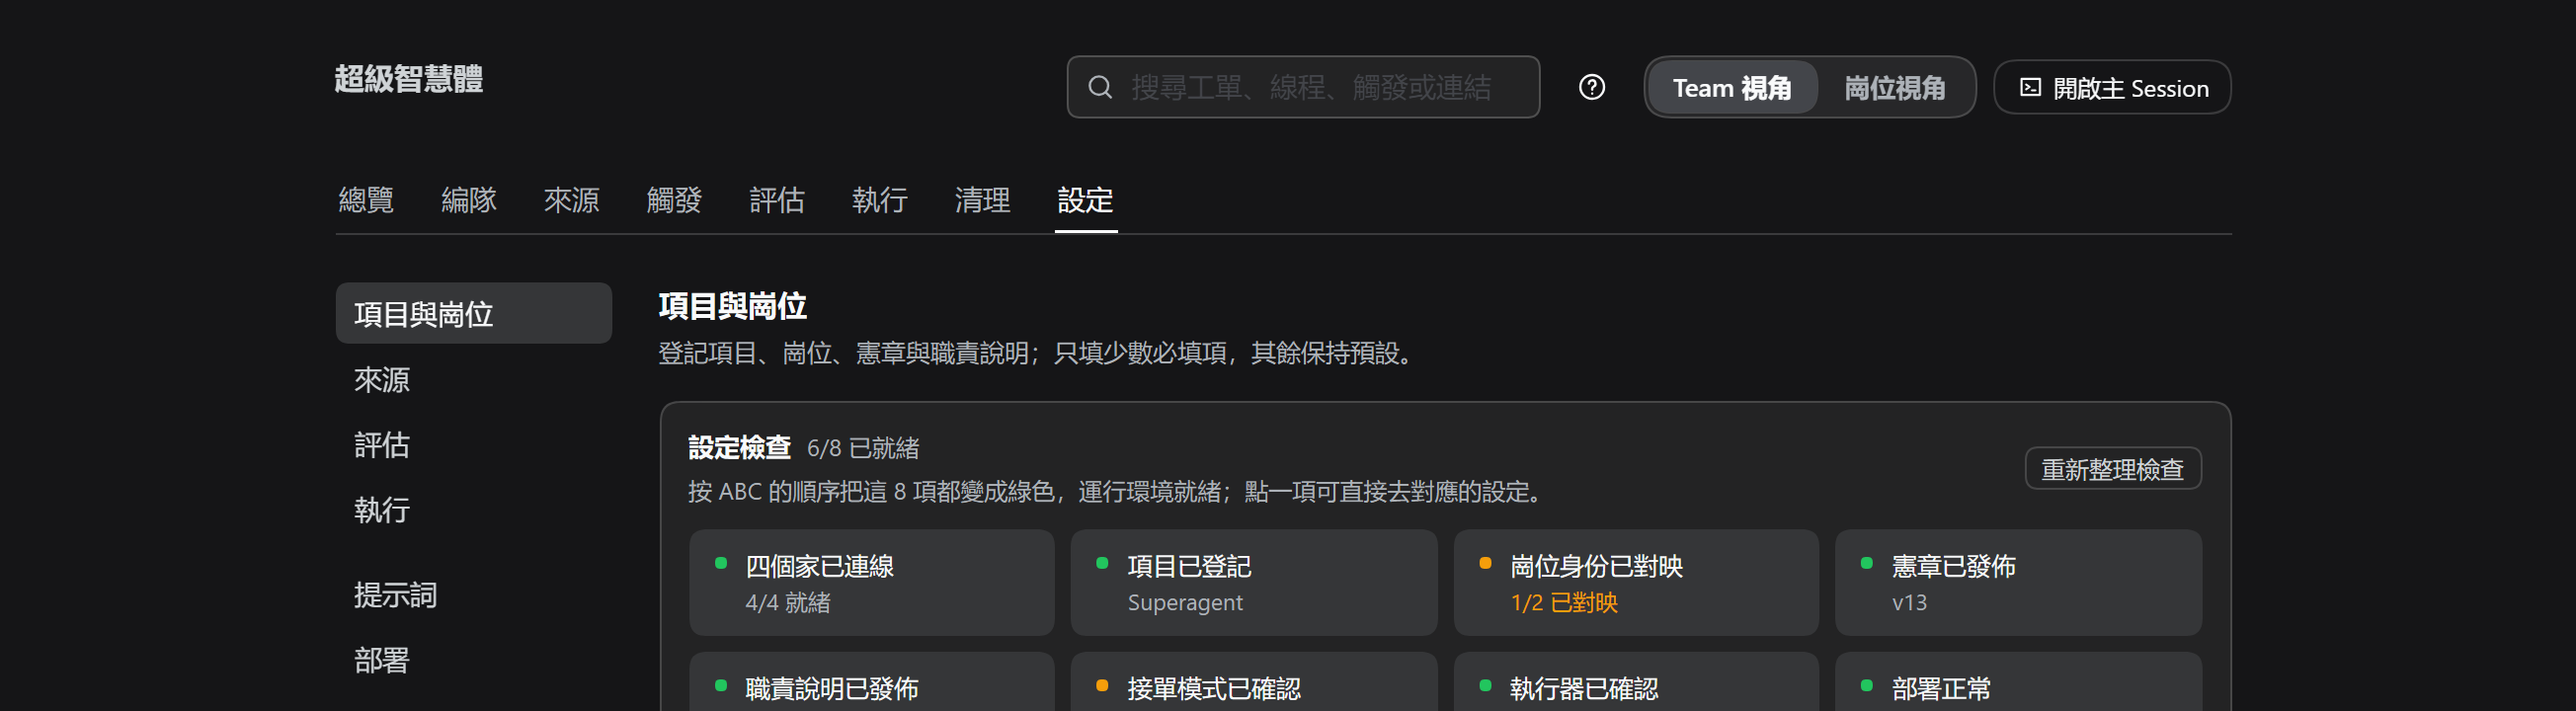
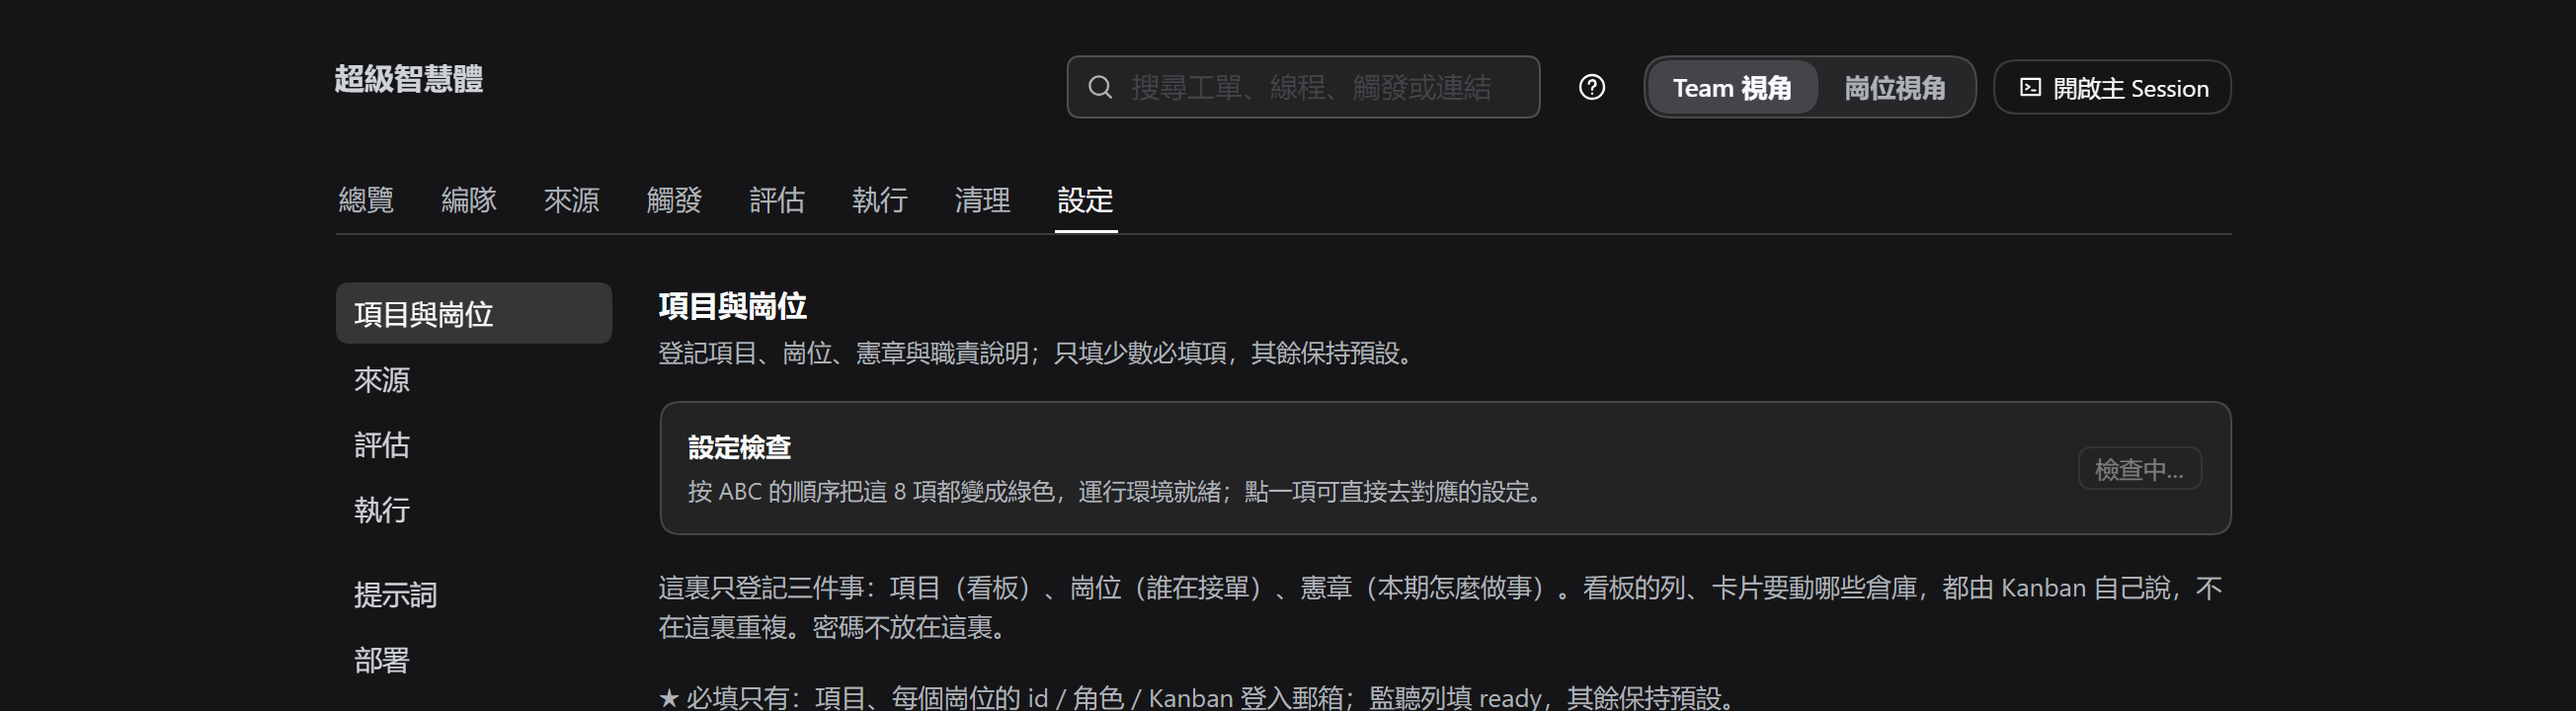
fix(panel,docs): a host maps only the posts it plays, and the setup check accepts one identity
The user clarified the deployment model: several hosts run superagent on one project board, each taking a free
combination of posts (only PM; only worker; several workers for different duties; or every kind). The Team on a
machine is exactly the combination registered in its own "项目与岗位" tab, so a machine normally maps only the
posts it plays — often one.

- The setup check no longer demands a fixed PM + worker pair (it used to say "1/2 mapped" for a host that
  legitimately plays one post). The post-identity item now reports `{mapped}/{total}` and is ready as soon as one
  post is mapped; it only warns when no post has a Kanban identity.
- The project group hint says this tab is this host's Team (one, several, or every kind), and that other hosts
  register theirs in their own panel.
- Docs spell the model out: SOP §2.6 now lists the four combinations with examples and says a host maps only the
  posts it plays ("only one mapped is normal", one post per host, don't register the same post on two hosts);
  ABC §2, AIOS (Member/Team rows) and docs/009 (one account ↔ one post; a host may take several) follow.

Verified: typecheck clean; docs + project/panel/post/settings suites pass (26 tests); live panel readiness shows
2/2 mapped for the two posts this host currently lists; ABC screenshots recaptured (a9-readiness shows the item
green).

Changed region(s): [[0.2485, 0.7333, 0.8696, 1.0], [0.7765, 0.6417, 0.8696, 0.7028], [0.3106, 0.6111, 0.3727, 0.6417]]

diff --git a/tests/fixtures/panel-server.ts b/tests/fixtures/panel-server.ts
@@ -380,13 +380,13 @@ const ROUTES: { [K in keyof Api]: Route<K> } = {
       charter: { version: 3, publishedAt: '2026-09-22T00:00:00Z', publishedBy: 'agent:pm', text: 'version: 3',
         ageDays: 1, stale: false, hasDraft: false, versions: [], detail: 'The charter is current' },
       posts: [{ postId: 'pm-fdep', role: 'pm', name: 'SuperAgent PM (FDEP)', projectId: 'p1', projectName: 'FDEP',
-        kaneoUser: 'pm@example.com', kaneoUserId: 'u-pm', giteaUser: 'sa-pm-fdep', ntfySender: '#sa-pm-fdep', wipLimit: 3, instance: 'web',
+        kaneoUser: 'pm@example.com', kaneoUserId: 'bsFdwgQX', giteaUser: 'sa-pm-fdep', ntfySender: '#sa-pm-fdep', wipLimit: 3, instance: 'web',
         watchColumns: 'ready,in-progress', dutyIds: [],
         dutyCount: 1, duties: [{ ticketId: 't1', title: '修复回归', postId: 'pm-fdep', projectId: 'p1', state: 'running',
           waiting: false, updatedAt: '2026-09-23T00:00:00Z' }], overLimit: false }],
     }],
     posts: [{ postId: 'pm-fdep', role: 'pm', name: 'SuperAgent PM (FDEP)', projectId: 'p1', projectName: 'FDEP',
-      kaneoUser: 'pm@example.com', kaneoUserId: 'u-pm', giteaUser: 'sa-pm-fdep', ntfySender: '#sa-pm-fdep', wipLimit: 3, instance: 'web',
+      kaneoUser: 'pm@example.com', kaneoUserId: 'bsFdwgQX', giteaUser: 'sa-pm-fdep', ntfySender: '#sa-pm-fdep', wipLimit: 3, instance: 'web',
       watchColumns: 'ready,in-progress', dutyIds: [],
       dutyCount: 1, duties: [{ ticketId: 't1', title: '修复回归', postId: 'pm-fdep', projectId: 'p1', state: 'running',
         waiting: false, updatedAt: '2026-09-23T00:00:00Z' }], overLimit: false }],
@@ -400,7 +400,7 @@ const ROUTES: { [K in keyof Api]: Route<K> } = {
     archive: { version: 1, projects: [{ id: 'p1', name: 'FDEP', slug: 'FDE',
       charter: { version: 3, publishedAt: '2026-09-22T00:00:00Z', publishedBy: 'agent:pm', text: 'version: 3', draft: '', history: [] },
       topics: ['pub_fdep_pm'],
-      posts: [{ postId: 'pm-fdep', role: 'pm', name: 'SuperAgent PM (FDEP)', kaneoUser: 'pm@example.com', kaneoUserId: 'u-pm',
+      posts: [{ postId: 'pm-fdep', role: 'pm', name: 'SuperAgent PM (FDEP)', kaneoUser: 'pm@example.com', kaneoUserId: 'bsFdwgQX',
         giteaUser: 'sa-pm-fdep', ntfySender: '#sa-pm-fdep', wipLimit: 3, instance: 'web', watchColumns: 'ready', duties: [] }] }] },
     revision: 7,
   }) },

diff --git a/lib/client.js b/lib/client.js
@@ -4334,6 +4334,8 @@ window.__ModuleLoader__.load({
 			readinessSourcesDetail: ["{ready}/{total} 就绪", "{ready}/{total} ready"],
 			readinessMapped: ["{mapped}/{total} 已映射", "{mapped}/{total} mapped"],
 			readinessMappedOne: ["{post} 已映射", "{post} mapped"],
+			readinessHostPost: ["本机账号已映射为岗位 {post}", "This host's account maps to post {post}"],
+			readinessHostNoPost: ["本机 Kanban 账号「{account}」还没有对应岗位：把它的登录邮箱填到一张岗位卡", "This host's Kanban account {account} has no post yet: put its login e-mail on a post card"],
 			readinessCount: ["{count} 条", "{count} item(s)"],
 			readinessExecutorDetail: ["并行 {max} · 运行中 {running}", "parallel {max} · running {running}"],
 			"readiness.sources": ["四个家已连接", "Four homes connected"],
@@ -7489,16 +7491,16 @@ window.__ModuleLoader__.load({
 						state: project ? "done" : "warning"
 					});
 					const posts = project?.posts ?? [];
-					const mapped = [posts.some((post) => post.role === "pm" && post.kaneoUserId), posts.some((post) => post.role === "worker" && post.kaneoUserId)].filter(Boolean).length;
+					const mapped = posts.filter((post) => post.kaneoUserId).length;
 					items.push({
 						key: "posts",
 						group: "project",
 						label: t("readiness.posts"),
 						detail: posts.length ? t("readinessMapped", {
 							mapped: String(mapped),
-							total: "2"
+							total: String(posts.length)
 						}) : t("readinessNoPosts"),
-						state: posts.length && mapped === 2 ? "done" : "warning"
+						state: mapped > 0 ? "done" : "warning"
 					});
 					const charterVersion = project?.charter.version ?? 0;
 					items.push({

diff --git a/src/client/readiness.tsx b/src/client/readiness.tsx
@@ -68,12 +68,12 @@ export function SettingsReadiness({ state, compact = false }: { state: StateView
       items.push({ key: 'project', group: 'project', label: t('readiness.project'),
         detail: project ? (project.name || project.id) : t('readinessNoProject'),
         state: project ? 'done' : 'warning' })
+      // A host plays a free combination of posts (often just one), so one mapped identity is already a complete answer.
       const posts = project?.posts ?? []
-      const mapped = [posts.some(post => post.role === 'pm' && post.kaneoUserId),
-        posts.some(post => post.role === 'worker' && post.kaneoUserId)].filter(Boolean).length
+      const mapped = posts.filter(post => post.kaneoUserId).length
       items.push({ key: 'posts', group: 'project', label: t('readiness.posts'),
-        detail: posts.length ? t('readinessMapped', { mapped: String(mapped), total: '2' }) : t('readinessNoPosts'),
-        state: posts.length && mapped === 2 ? 'done' : 'warning' })
+        detail: posts.length ? t('readinessMapped', { mapped: String(mapped), total: String(posts.length) }) : t('readinessNoPosts'),
+        state: mapped > 0 ? 'done' : 'warning' })
       const charterVersion = project?.charter.version ?? 0
       items.push({ key: 'charter', group: 'project', label: t('readiness.charter'),
         detail: charterVersion > 0 ? `v${charterVersion}` : t('readinessNotPublished'),

diff --git a/tests/panel-projects.spec.tsx b/tests/panel-projects.spec.tsx
@@ -3,7 +3,7 @@
 // the project's own name, slug and (when the list is still the previous default) its topic along with it.
 import { expect, it } from 'vitest'
 import { zh } from '../src/client/locales.ts'
-import { usePanel, mount, find, tab, click, type, settle } from './fixtures/panel.tsx'
+import { usePanel, mount, find, tab, click, type, settle, text } from './fixtures/panel.tsx'
 import { server } from './fixtures/panel-server.ts'
 
 usePanel()
@@ -135,6 +135,15 @@ it('picks a post duty from the published duties list and saves the selection', a
   // Clicking the chip removes the selection again.
   await click(editor().querySelector('.dt-duties-picked .dt-tag')!)
   expect(editor().querySelector('.dt-duties-picked')).toBeNull()
+})
+
+it('accepts a host that maps just one post identity', async () => {
+  await mount()
+  await click(tab(zh['tab.settings']))
+  await settle()
+  // The fixture's host plays one PM post: one mapped identity is a complete answer, not "1 of a fixed PM + worker pair".
+  expect(text()).toContain('1/1 已映射')
+  expect(text()).not.toContain('1/2')
 })
 
 it('keeps the current project selectable when the account cannot see it any more', async () => {

diff --git a/src/client/locales.ts b/src/client/locales.ts
@@ -732,6 +732,9 @@ const TEXT = {
   readinessSourcesDetail: ['{ready}/{total} 就绪', '{ready}/{total} ready'],
   readinessMapped: ['{mapped}/{total} 已映射', '{mapped}/{total} mapped'],
   readinessMappedOne: ['{post} 已映射', '{post} mapped'],
+  readinessHostPost: ['本机账号已映射为岗位 {post}', 'This host\'s account maps to post {post}'],
+  readinessHostNoPost: ['本机 Kanban 账号「{account}」还没有对应岗位：把它的登录邮箱填到一张岗位卡',
+    'This host\'s Kanban account {account} has no post yet: put its login e-mail on a post card'],
   readinessCount: ['{count} 条', '{count} item(s)'],
   readinessExecutorDetail: ['并行 {max} · 运行中 {running}', 'parallel {max} · running {running}'],
   'readiness.sources': ['四个家已连接', 'Four homes connected'],

diff --git a/tests/panel-posts.spec.tsx b/tests/panel-posts.spec.tsx
@@ -45,7 +45,7 @@ it('edits the project archive in the settings page and saves it', async () => {
   expect(all('.dt-field-label').map(label => label.textContent)).toContain(zh.projectPostKanban)
   const identity = [...document.querySelectorAll<HTMLInputElement>('input')].find(input => input.value === 'pm@example.com')
   expect(identity).toBeDefined()
-  expect(document.body.textContent).toContain('u-pm')
+  expect(document.body.textContent).toContain('bsFdwgQX')
   await click(zh.projectSave)
   const saved = server.requests.find(request => request.path === 'project-archive' && request.method === 'PUT')
   expect(saved).toBeDefined()

diff --git a/AIOS.md b/AIOS.md
@@ -92,9 +92,9 @@
 | --- | --- | --- | --- |
 | **Organization（组织）** | 在共同宪章与目标下运行的协作整体 | 一个 Kanban 项目 + 项目档案（岗位、宪章镜像、职责说明、看板订阅） | ✅ |
 | **PM（领导者）** | 组织协调、授权、治理 | **PM 岗位**（主 Session / Team 视角）；签发宪章、派工、处理异常、审进度 | ✅ |
-| **Member（成员）** | 可以是真实人员，也可以是 AI Agent | AI 成员 = **岗位（Post）**（一个岗位 = 一个 SuperAgent 实例）；Human 通过来源消息、看板指派与审批参与 | 🚧 无统一 Member/成员目录（身份保留在各来源，符合 001 的取舍） |
+| **Member（成员）** | 可以是真实人员，也可以是 AI Agent | AI 成员 = **岗位（Post）**；一台 Host 的 SuperAgent 可承担一个或多个岗位（PM/Worker 组合自由），由本机「项目与岗位」登记；Human 通过来源消息、看板指派与审批参与 | 🚧 无统一 Member/成员目录（身份保留在各来源，符合 001 的取舍） |
 | **Role / 岗位** | 职责、权限、能力边界 | 岗位的 `role`（`pm` / `worker`）+ 身份绑定（Kanban 登录邮箱→用户 id、Gitea 账号、ntfy sender）+ 监听列 + WIP | ✅ |
-| **Team（团队）** | 按共同目标组织的协作单元 | 当前以"项目 + 看板列 + 职责的承接岗位"体现；**尚无独立 Team 实体** | 🔭 |
+| **Team（团队）** | 按共同目标组织的协作单元 | 当前 = 一台 Host 在本机「项目与岗位」里选定的岗位组合（一台机器一个组合）；多台 Host 围绕同一项目看板协同；**尚无独立 Team 实体** | 🔭 |
 | **Team Leader** | 团队工作组织与交付质量 | 当前由 PM 岗位兼任（项目规模小时是合理默认） | 🔭 |
 | **Worker（执行者）** | 具体工作的执行者（Human 或 AI） | **Worker 岗位**的执行器 Session（每个工单一个执行会话与工作目录） | ✅ |
 | **Charter（宪章）** | 组织共同遵守的运行规范 | 项目宪章：发布到 Gitea 宪章仓库的 `README.md`（失败时退回 Kanban 项目描述镜像）；版本化、**每周最多一版**、保留历史 | ✅ |

diff --git a/SOP.md b/SOP.md
@@ -103,14 +103,18 @@ npx @deepseek-ai/dsh plugin --profile web add "git+https://git.feg.cn/shawoo/sup
 
 > 其余的（Gitea/ntfy）是**可选**：Gitea 只提供宪章与职责说明；ntfy 带入库 tag 的通知先入库成卡，再由岗位统一接手。
 
-### 2.6 多台机器，一个项目（多 Host）
+### 2.6 多台机器，一个项目（多 Host 组合）
 
-**多个 Host 用 SuperAgent 连到**同一个 Kanban 项目，**各自扮演一个岗位**，靠看板协同 ✅ ✅：
+**多个 Host 连同一个 Kanban 项目，各自扮演不同的岗位（PM/Worker）与职责组合，靠看板协同 ✅ ✅：**
 
-| 这台 Host 扮演 | Kanban 账号 | 能做什么 |
+| 这台 Host 扮演 | 例子 | 作用 |
 | --- | --- | --- |
-| **PM 岗位** | **workspace admin**（如 `sa-pm-fdep`） | 管流程（改列/status）、发宪章、派工、处理异常 |
-| **Worker 岗位** | member（如 `sa-w1-fdep`） | 领指派给自己的卡、做工、回写卡片 |
+| 只做 PM | `pm-<项目>` | 管流程（改列/status）、发宪章、派工、处理异常 |
+| 只做 Worker | `w1-<项目>` | 领指派给自己的卡、做工、回写卡片 |
+| 多个 Worker（各接不同职责） | `ux-<项目>`、`api-<项目>` | 前端/后台分开接单，互不干扰 |
+| 全都有 | PM + 若干 Worker | 小团队一台机器跑完整流程 |
+
+> **组合自由，本机配置**：「设置 → 项目与岗位」登记的就是**这台主机的 Team**（它扮演哪些岗位）。同一岗位只在一台 Host 上登记，不要两台都填。每个岗位映射一个 Kanban 登录邮箱；**一台 Host 只映射它扮演的那个（或那几个）岗位**，其余岗位属于别的主机，所以只映射一个是正常状态。
 
 - 每台 Host **各自**配自己的资源、工具与技能 ✅ ✅（按职责配 ✅ ✅ ✅）：来源卡片、提示词、工具包、执行环境 ✅ ✅ ✅。
 - 岗位之间**不直接通信** ✅ ✅：靠看板上的 assignee、状态列与评论 ✅ ✅ ✅。

diff --git a/docs/009-post-accounts.md b/docs/009-post-accounts.md
@@ -116,7 +116,7 @@ node scripts/post-accounts.mjs --roster config/post-accounts.json --out config/p
 
 | 约定 | 规则 |
 | --- | --- |
-| 一岗一账号 | 一个 Kanban 用户 ↔ 一个岗位 ↔ 一个 SuperAgent 实例（默认） |
+| 一岗一账号 | 一个 Kanban 用户 ↔ 一个岗位；一台 SuperAgent 宿主可承担一个或多个岗位（组合自由，默认一个） |
 | assignee = 主责 | 主责唯一，决定谁推进状态；协同角色用标签 `role:<name>` |
 | 评论署名 | 岗位在评论里带 `【agent:<postId>】`，与看板既有 `agent:pm/ux/bi` 惯例一致 |
 | 最小权限 | Worker 用 `member`；只读岗位用 `viewer`；PM 才需要改列/改负责人 |

diff --git a/HANDOFF.md b/HANDOFF.md
@@ -534,3 +534,4 @@ pnpm check        # typecheck + vitest + build
 | 2026-11-03 13:57 | 端到端验证通过；清理测试卡 |
 | 2026-11-03 14:05 | 文档回填：HANDOFF + TDD/001–006 + artifacts |
 | 2026-11-07 20:10 | 职责说明改为 `duties/` 目录（一个职责一个文件）；岗位卡用「接哪些职责」下拉选择；旧的单个 `duties.md` 发布一次即迁移删除 |
+| 2026-11-07 20:45 | 多 Host 的 Team 组合模型写进 SOP §2.6 / ABC / AIOS；设置检查的「岗位身份」改为映射一个即就绪（一台 Host 只演它那几个岗位） |

diff --git a/ABC.md b/ABC.md
@@ -72,6 +72,8 @@
 ## 2. 项目与岗位 tab：告诉系统"谁在这干活"
 
 > 这一个 tab 里完成 A5–A7：**选项目 → 加两个岗位 → 发布宪章 → 发布职责说明**。
+
+> 这里登记的是**本机 Team**：这台主机扮演哪些岗位（可以只演一个，也可以演多个）。多台主机协作时，每台在各自的面板登记自己演的岗位；**同一岗位不要两台都登记**。
 > 带 **★** 的字段是必填；其余保持默认即可。
 
 ### A5. 选项目 + 加两个岗位
